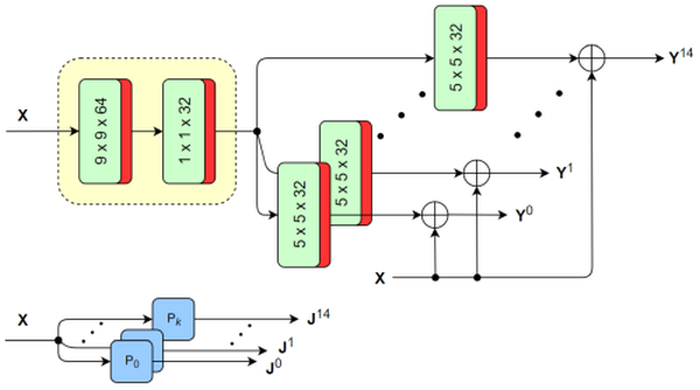
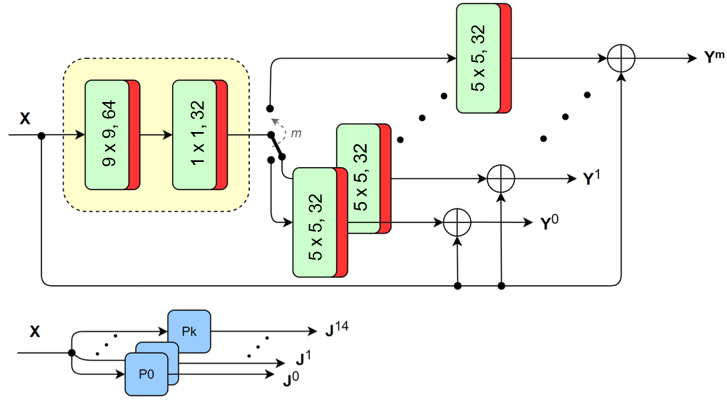
Updated README resources and simplified filter extraction process

diff --git a/tools/load_learned_filters.py b/tools/load_learned_filters.py
@@ -152,45 +152,30 @@ if __name__ == '__main__':
 
             # with a multi-layer CNN
             if len(cnn_model.weights) > 1:
-                # transform the final layer vector into a 3D matrix
-                final_layer = np.reshape(weight_values[-1], (w_shape[0] * w_shape[1], w_shape[2], w_shape[3]))
-                final_layer = np.transpose(final_layer, (1, 0, 2))
-                weight_values[-1] = final_layer
+                # transpose each layer before last and reshape the final layer vector into a 3D matrix
+                for i in range(len(weight_values)-1):
+                    weight_values[i] = np.transpose(weight_values[i])
+                weight_values[-1] = np.reshape(weight_values[-1], (w_shape[0] * w_shape[1], w_shape[2], w_shape[3]))
 
                 # get the master weight matrix that contains all matrix multiplication values
-                l_master = weight_values[0]
-                for i, values in enumerate(weight_values[1:]):
-                    if i == len(weight_values) - 2:
-                        l_master = np.einsum("ij,jkl->ikl", l_master, values)
-                    else:
-                        l_master = np.dot(l_master, values)
+                l_master = weight_values[-1]
+                for values in reversed(weight_values[:-1]):
+                    l_master = np.einsum("ijk,jl->ilk", l_master, values)
+                l_master = np.reshape(l_master,
+                                      (l_master.shape[0], weight_shapes[0][0], weight_shapes[0][1], l_master.shape[-1]))
 
-                # create matrix of minimum input size to neural network, with labels for each position in the grid
-                # extract patches from the matrix revealing where input values were copied to before the 1st convolution
-                increment = np.reshape(range(kernel ** 2), (1, kernel, kernel, 1))
-                increment = tf.extract_image_patches(
-                    images=increment,
-                    ksizes=[1, weight_shapes[0][0], weight_shapes[0][1], 1], strides=[1, 1, 1, 1], rates=[1, 1, 1, 1],
-                    padding='VALID').eval()
-                # final input matrix that contains info for all positions from a kernel matrix
-                # that each coefficient from the master weight matrix will be applied to
-                increment = np.reshape(increment, (increment.shape[0] * increment.shape[1] * increment.shape[2],
-                                                   increment.shape[3]))
-
-                # create the final kernel matrix
-                # values are obtained by summing the correct values from the master weight matrix
-                # (the info on which values contribute to each position is stored in the increment matrix)
-                all_coefficients = np.zeros((kernel ** 2, weight_shapes[-1][-1]))
-                for i, j, k in product(range(increment.shape[0]), range(increment.shape[1]),
-                                       range(weight_shapes[-1][-1])):
-                    all_coefficients[increment[i, j], k] += l_master[j, i, k]
+                # create the final kernel matrix by adding coefficients from the master weight matrix
+                # to overlapping patch positions within the kernel
+                all_coefficients = np.zeros((kernel, kernel, weight_shapes[-1][-1]))
+                for i in range(all_coefficients.shape[-1]):
+                    for j in range(l_master.shape[0]):
+                        all_coefficients[j // 5:j // 5 + 9, j % 5:j % 5 + 9, i] += l_master[j, :, :, i]
 
             # with a single-layer CNN, directly use the coefficients
             else:
-                all_coefficients = np.reshape(weight_values[0], weight_shapes[0])
+                all_coefficients = np.reshape(weight_values[0], (kernel, kernel, weight_shapes[-1][-1]))
 
-            # reshape the matrix and add 1 to the central coefficient because the network learns residuals
-            all_coefficients = np.reshape(all_coefficients, (kernel, kernel, weight_shapes[-1][-1]))
+            # add 1 to the central coefficient because the network learns residuals
             for k in range(weight_shapes[-1][-1]):
                 all_coefficients[all_coefficients.shape[0] // 2, all_coefficients.shape[1] // 2, k] += 1
 

diff --git a/README.md b/README.md
@@ -60,20 +60,31 @@ The software in this repository presents methods from:
 - ***Interpreting CNN for Low Complexity Learned Sub-pixel Motion Compensation in Video Coding***,
   available on [IEEE Xplore](https://ieeexplore.ieee.org/document/9191193) and [arXiv](https://arxiv.org/abs/2006.06392).
 
-Please cite this work as:
+[comment]: <> (Please cite this work as:)
 
-```
-@inproceedings{Murn2020,
-  author={L. {Murn} and S. {Blasi} and A. F. {Smeaton} and N. E. {O’Connor} and M. {Mrak}},
-  booktitle={2020 IEEE International Conference on Image Processing (ICIP)}, 
-  title={Interpreting CNN For Low Complexity Learned Sub-Pixel Motion Compensation In Video Coding}, 
-  year={2020},
-  volume={},
-  number={},
-  pages={798-802},
-  doi={10.1109/ICIP40778.2020.9191193}
-}
-```
+[comment]: <> (```)
+
+[comment]: <> (@inproceedings{Murn2020,)
+
+[comment]: <> (  author={L. {Murn} and S. {Blasi} and A. F. {Smeaton} and N. E. {O’Connor} and M. {Mrak}},)
+
+[comment]: <> (  booktitle={2020 IEEE International Conference on Image Processing &#40;ICIP&#41;}, )
+
+[comment]: <> (  title={Interpreting CNN For Low Complexity Learned Sub-Pixel Motion Compensation In Video Coding}, )
+
+[comment]: <> (  year={2020},)
+
+[comment]: <> (  volume={},)
+
+[comment]: <> (  number={},)
+
+[comment]: <> (  pages={798-802},)
+
+[comment]: <> (  doi={10.1109/ICIP40778.2020.9191193})
+
+[comment]: <> (})
+
+[comment]: <> (```)
 
 ## How to use
 
@@ -191,7 +202,11 @@ python main.py -c model-configs/[model-name].py -a [train/test]
 
 ### Applying the learned filters
 In order to integrate the learned interpolation filters into VTM 6.0, their coefficients need to be extracted 
-from the trained models. After training a certain architecture on a dataset, run the commands:
+from the trained models, as visualised:
+
+![filter-extraction]
+
+After training a certain architecture on a dataset, run the commands:
 
 ```bash
 cd tools
@@ -201,6 +216,8 @@ python load_learned_filters.py -m [model]
 An array of filter coefficients will be stored in the results directory, as defined in the model configuration file.
 Copy the array to ```VVCSoftware_VTM/source/Lib/CommonLib/InterpolationFilter.cpp``` in the patched VTM 6.0 codec 
 and run the encoder with the same command arguments as specified in [Pre-trained models](#pre-trained-models).
+
+[filter-extraction]: readme-resources/filter-extraction.png
 
 ### Analyzing the usage of the learned filters
 After implementing the learned filters in the modified VTM 6.0 codec, a statistics collector macro
